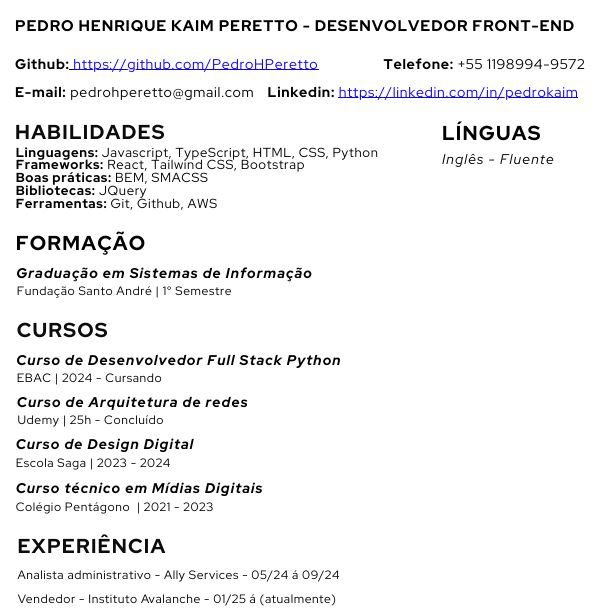
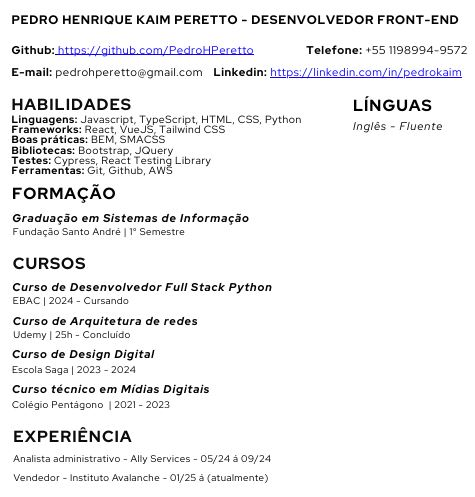
adding new content

Changed region(s): [[0.0, 0.0905, 1.0, 0.4829], [0.0295, 0.5131, 0.5895, 0.996], [0.0295, 0.0302, 0.9726, 0.0604]]

diff --git a/index.html b/index.html
@@ -61,10 +61,12 @@
                         <p>Me chamo Pedro Henrique, tenho 19 anos e sou de São Paulo.
                         Sou um profissional apaixonado por tecnologia e inovação desde pequeno, e sempre em busca de novos desafios e 
                         aprendizado contínuo. 
-                        Possuo habilidades sólidas em desenvolvimento frontend com experiência em linguagens como Javascript, TypeScript,
-                        HTML, CSS, SCSS e Python, frameworks como React, Tailwind CSS e Bootstrap, bibliotecas como JQuery, boas práticas como BEM e SMACSS, e ferramentas como Git, 
-                        Github e AWS. Minha abordagem é focada em soluções eficientes, colaboração e aprimoramento constante. Tenho facilidade em trabalhar em 
-                        equipe, sou muito proativo, resolvo problemas de forma criativa e me adapto a diferentes cenários e demandas.
+                        Possuo habilidades sólidas em desenvolvimento frontend com experiência em linguagens como Javascript, 
+                        TypeScript, HTML, CSS, SCSS e Python, frameworks como React, VueJS, Tailwind CSS, bibliotecas como 
+                        Bootstrap, JQuery, boas práticas como BEM e SMACSS, testes com Cypress, React Testing Library e 
+                        ferramentas como Git, Github e AWS. Minha abordagem é focada em soluções eficientes, colaboração e 
+                        aprimoramento constante. Tenho facilidade em trabalhar em equipe, sou muito proativo, resolvo 
+                        problemas de forma criativa e me adapto a diferentes cenários e demandas.
                         </p>
                     </div>
                 </div>
